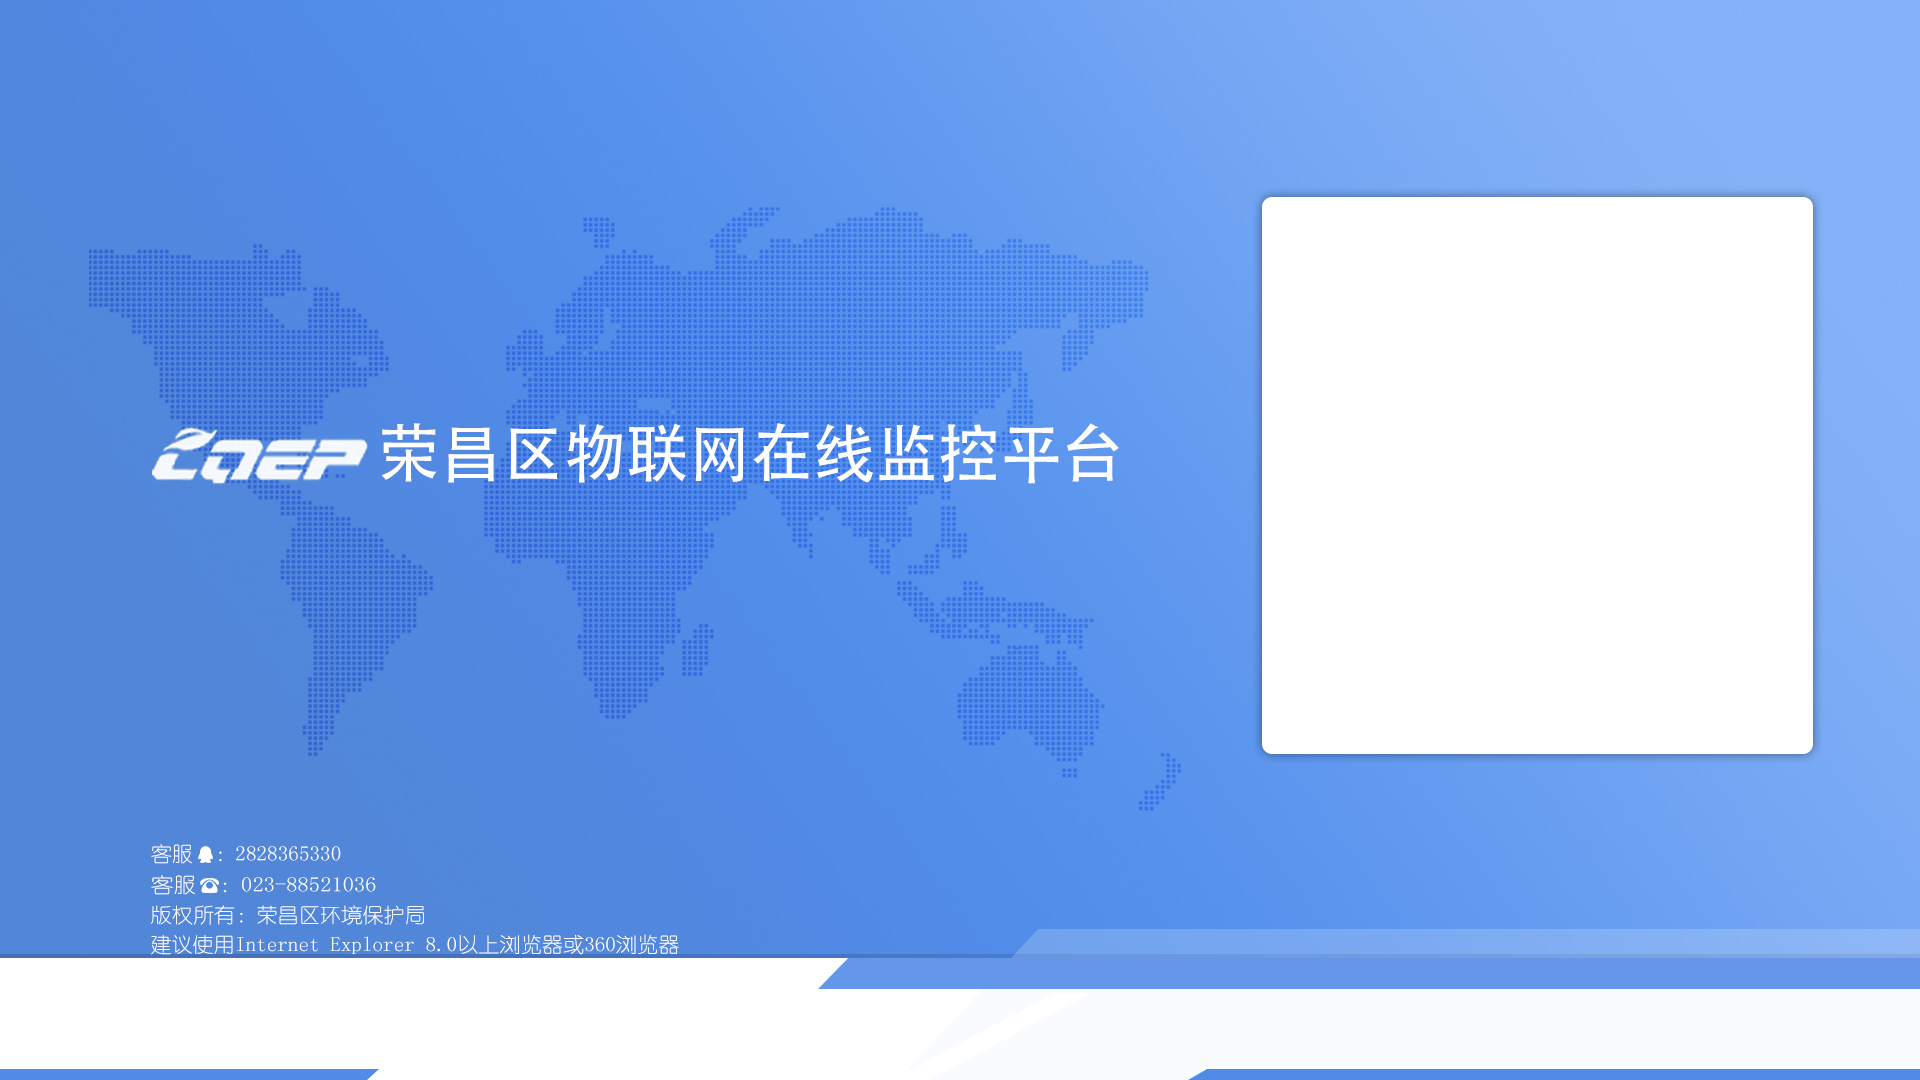
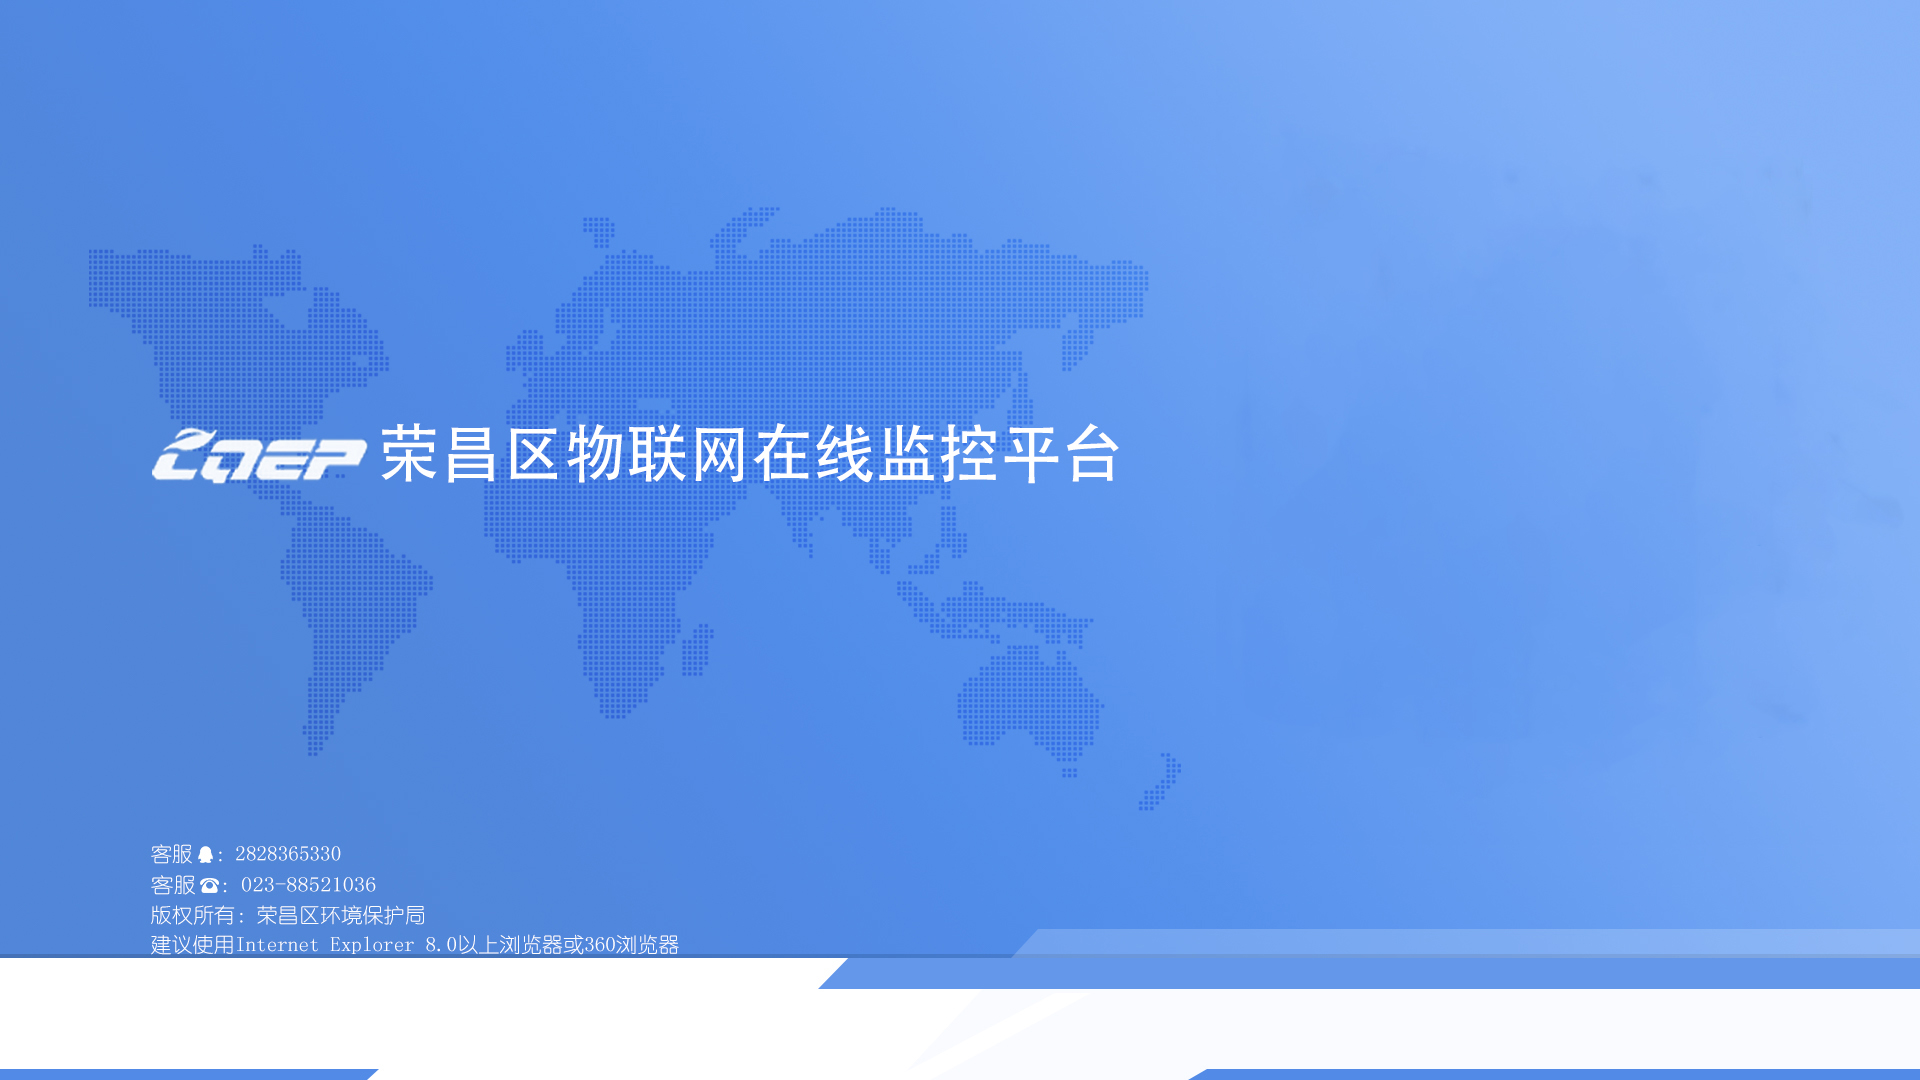
wqs page

Changed region(s): [[0.6562, 0.1528, 0.9688, 0.7028]]

diff --git a/css/style.css b/css/style.css
@@ -226,9 +226,10 @@ tr .align-right{width:120px;text-align: right}
     background-repeat: repeat;
     /*background-size: 1440px 920px; */
     background-position: center;
+    background-size: cover;
 }
 /*.layui-layer.layui-layer-page {box-shadow: none !important;}*/
-#login_container{ background-color: rgba(0,0,0,0); text-align: center; display: none; padding: 16px;}
+#login_container{ background-color: rgba(255,255,255,1); text-align: center; display: none; padding: 16px;}
 #login_container h1{ line-height: 2em; font-size: 24px; padding: 0 20px; font-weight: bold; color: white; text-shadow: #5d5f62 0px 0px 2px; letter-spacing: 3px; }
 #login_container h1:nth-child(2){ letter-spacing: 16px; }
 #login_container .layui-form{ padding: 16px; }

diff --git a/js/login.js b/js/login.js
@@ -69,8 +69,10 @@ layui.define(['layer', 'form', 'element'], function(exports){
         content : $('#login_container')
         ,title: false //不显示标题栏
         ,closeBtn: false
-        ,area: '450px;'
+        ,area: '470px'
+        ,offset: [($(window).height()/2 - 250 )+ 'px', ($(window).width()-500)+'px']
         ,shade: 0
+        ,resizing: true
         ,id: 'login' //设定一个id，防止重复弹出
         ,moveType: 1 //拖拽模式，0或者1
         // ,offset : ['100px','50px']
